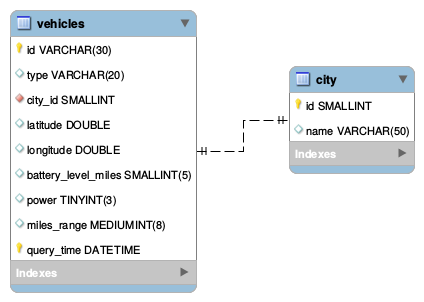
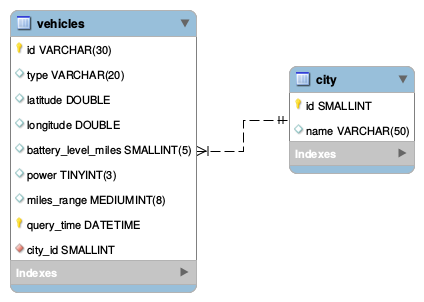
updated project documentation

diff --git a/doc/riconciliazione.tex b/doc/riconciliazione.tex
@@ -185,4 +185,65 @@ risolzione dei conflitti ha portato allo schema di figura~\ref{fig:integrated_1_
 \label{fig:integrated_1_er}                                                                                                                                                           
 \end{figure}
 
+In figura~\ref{fig:riconciliato_er} è mostrato lo schema logico dell'ODS.
+Alla tabella \textit{cities} è stato aggiunta una chiave surrogata \textit{id}
+verso la quale vi è un vincolo di integrità referenziale per ognuna delle tabelle
+ad essa relazionate. Tale attributo è poi parte della chiave primaria per le
+tabelle \textit{strikes} e \textit{weather\_hourly\_profilings}.
 
+Diversamente da quanto fatto in fase di progettazione dello schema logico della
+sorgente operazionale, considerata la necessità per la base date in oggetto
+di conservare i dati sulle profilazioni per un orizzonte temporale lungo che ricada
+nell'intervallo tra 5 e 10 anni dal loro inserimento, si è scelto di rappresentare 
+le entità \textit{Vehicle} e \textit{Vehicles\_hourly\_profilings} con due
+le relazioni eliminando la ridondanza dell'attributo \textit{type}. 
+
+\begin{figure}[H]                                                                                                                                                            
+\centering                                                                                                                                                                   
+\includegraphics[width=\textwidth]{diagrams/riconciliato_er}                                                                                                                                   
+\caption{Schema Riconciliato - Diagramma logico}                                                                                                                                            
+\label{fig:riconciliato_er}                                                                                                                                                           
+\end{figure}
+
+\section{ETL da sorgenti operazionali a ODS}
+
+\subsection{Helbiz}
+
+\subsubsection{Estrazione}
+
+La sorgente dati per sua natura di tipo transiente (i dati sono disponibili in
+real-time e non sono disponibili dati storici) è stata trasformata in una
+sorgente con dati periodici in quanto si è scelto di conservare i dati raccolti
+mediante le API per un periodo di 6 mesi.
+
+L'estrazione è di tipo \textit{incremental delayed}: un job di sistema è
+schedulato al termine della giornata per invocare l'applicativo sviluppato in
+modalità di estrazione il quale interroga la base dati, ottenere i dati delle
+profilazioni delle ultime 24 ore e procedere al caricamento delle stesse
+all'interno dell'ODS.
+
+\subsubsection{Trasformazione}
+
+Durante la procedura di estrazione viene interrogata la tabella
+\textit{vehicles} dello schema di figura~\ref{fig:vehicles_logic_physic} al fine
+di ottenere tutti gli istanti di profilazione intervenuti nelle ultime 24 ore
+per una determinata region, ordinati in maniera ascendente. Viene eseguita
+a livello di codice Java la differenza tra coppie adiacenti di
+\textit{query\_time} e vengono scartate le coppie per cui la differenza in
+minuti non è compresa tra 3 e 10 minuti intervalli esclusi. Come anticipato
+l'applicativo è stato impostato per acquisire dati dal servizio remoto ogni 5
+minuti. Applicando tale operazione di filtraggio si ha la sicurezza di evitare
+di processare profilazioni tra loro troppo vicine o troppo distanti, frutto in
+qualche caso di errore dovuto alla momentanea incapacità di rispondere da parte
+del servizio remoto. Per ogni coppia di istanti di misurazione viene effettuata
+un'interrogazione al database della sorgente al fine di ottenere per ogni veicolo
+della region di interesse una tupla ricavata dalla join della tabella
+\textit{vehicles} con se stessa avendo cura di associare profilazioni per veicoli
+aventi lo stesso id, e città 
+
+
+
+e per ogni coppia di
+Al termine della procedura di estrazione l'applicativo scritto provvede ad
+inserire i dati all'interno della relazione
+\textit{vehicles\_profiling\_window}. 

diff --git a/doc/sorgenti.tex b/doc/sorgenti.tex
@@ -151,8 +151,8 @@ minuti interroga ad intervalli regolari il servizio esposto da Helbiz per ottene
 informazioni sui veicoli presenti in una delimitata area geografica.
 In figura~\ref{fig:vehicle_profiling_er} è mostrato lo schema ER che modella le informazioni
 relative alle profilazioni. Nella progettazione è stato assunto che ogni istanza
-dell'entità Profiling sia univocamente identificata dall'attributo query\_time e
-dall'attributo id dell'entità Vehicle.
+dell'entità Profiling sia univocamente identificata dall'attributo \textit{query\_time} e
+dall'attributo \textit{id} dell'entità Vehicle.
 
 \begin{figure}[H]                                                                                                                                                            
 \centering                                                                                                                                                                   
@@ -175,13 +175,11 @@ profilazioni all'interno della relazione \textit{Vehicles}.
 In figura~\ref{fig:vehicles_logic_physic} è mostrato lo schema logico ottenuto mediante
 l'applicativo MySQL Workbench.
 
-Considerata a regime una differenza importante tra le due tabelle per numero di record
-memorizzati, è stato valutata sconveniente l'aggiunta delle chiavi della tabella
-\textit{Vehicles} alla tabella \textit{Cities} con conseguente aggiunta di ridondanza.
-Ciò ha portato a trasformare la relazione uno a molto espressa nel precedente diagramma
-ER in una relazione uno a uno. La stessa considerazione ha portato ad aggiungere
-l'attributo \textit{type} dell'entità \textit{Vehicle} del precedente schema ER alla
-tabella \textit{Vehicles} dello schema logico.
+Al fine di semplificare la scrittura dell'applicativo utilizzato per ottenere i dati
+dei veicoli dalla sorgente, le entità \textit{Vehicle} e \textit{Vehicle\_profiling} 
+sono state rappresentate nella stessa relazione \textit{vehicles}.
+Alla relazione \textit{regions} è stata aggiunta una chiave surrogata referenziata
+dall'attributo \textit{city\_id} della relazione \textit{vehicles}.
 
 \begin{figure}[H]                                                                                                                                                            
 \centering                                                                                                                                                                   
